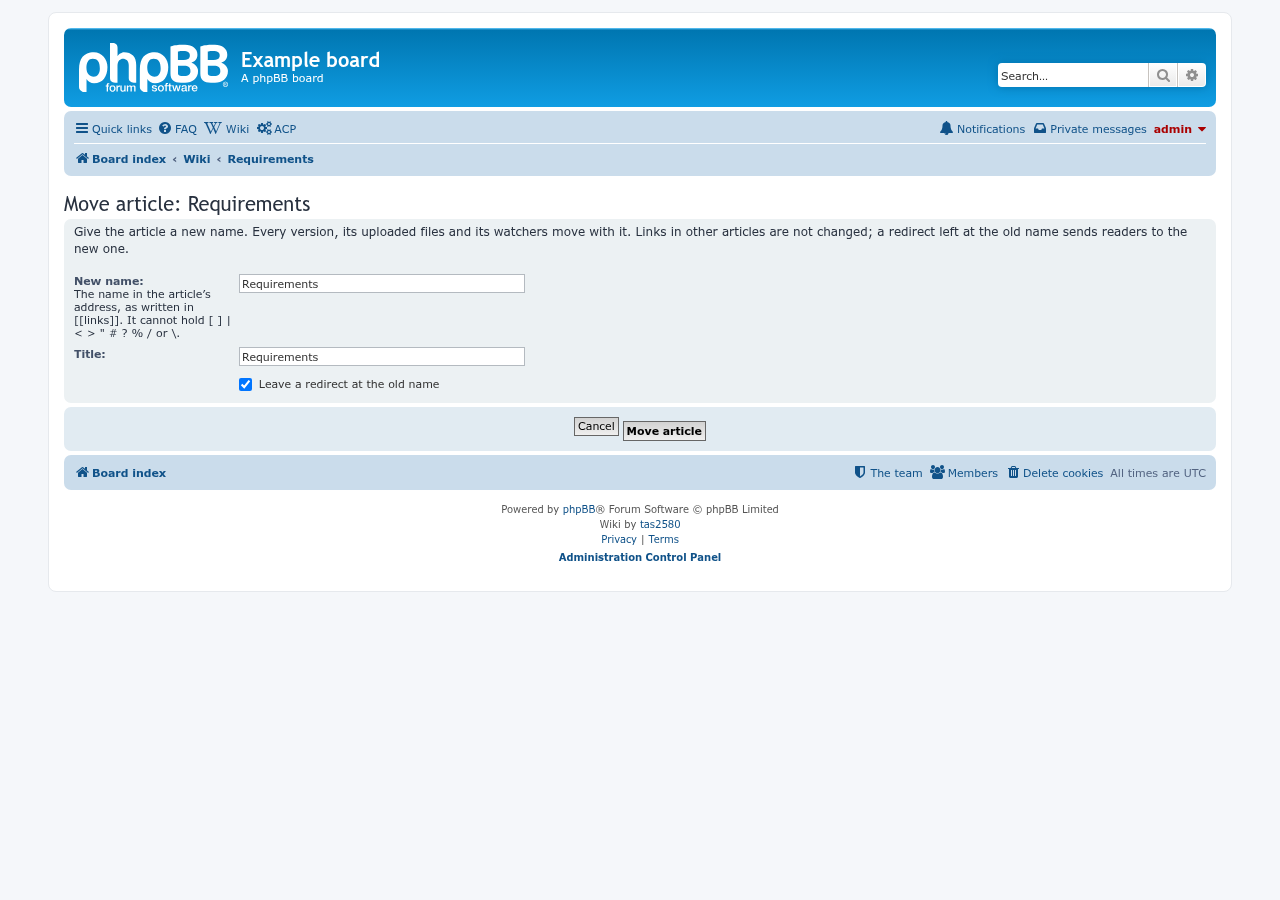
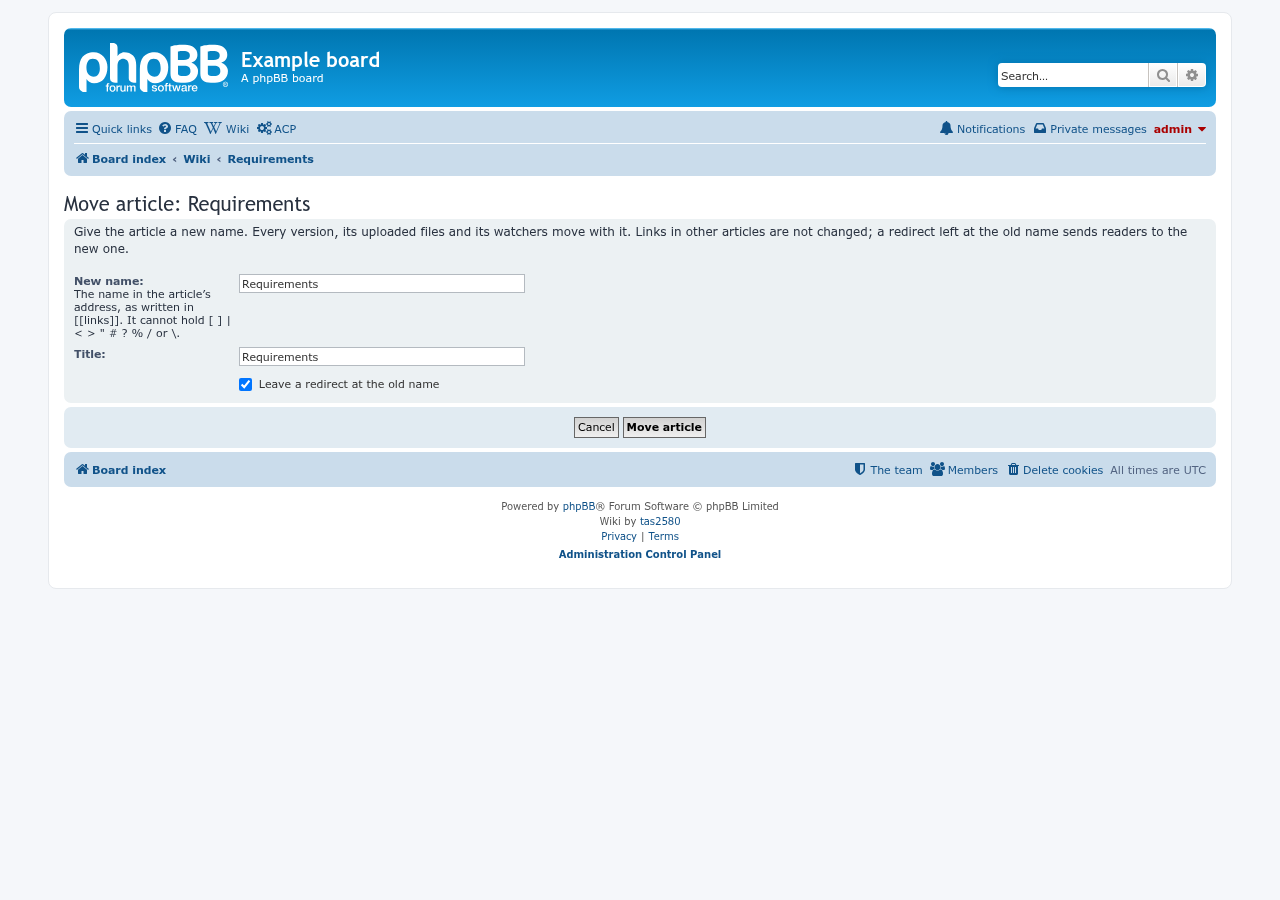
Make Cancel on the Move article page a real form button (#79)
Cancel on the Move article page (#63) was a link styled as `button2`,
which prosilver only sizes on form buttons, so it rendered smaller than
the Move button and out of line. It's now a form button named `cancel`
that goes back to the article, as in phpBB's own forms.
`docs/images/wiki-move.png` is retaken.

Claude retook the screenshot with phpbb-release-tools' `screenshots.py`,
and clicked Cancel on the seed-forum 3.3 board to check it returns to
the article.

---

Investigated and written by [Claude](https://www.anthropic.com/claude)
on behalf of William Jacoby ([bonelifer](https://github.com/bonelifer)).

🤖 Generated with [Claude Code](https://claude.com/claude-code)

---------

Changed region(s): [[0.0625, 0.4356, 0.9688, 0.6222]]

diff --git a/styles/prosilver/template/article_move.html b/styles/prosilver/template/article_move.html
@@ -35,7 +35,7 @@
 <div class="panel bg2">
 	<div class="inner">
 		<fieldset class="submit-buttons">
-			<a href="{U_CANCEL}" class="button2">{L_CANCEL}</a>
+			<input type="submit" name="cancel" value="{L_CANCEL}" class="button2">
 			<input type="submit" name="submit" value="{L_WIKI_MOVE_ARTICLE}" class="button1">
 			{S_FORM_TOKEN}
 		</fieldset>

diff --git a/wiki/move.php b/wiki/move.php
@@ -122,6 +122,11 @@ class move
 			trigger_error('NO_ARTICLE');
 		}
 
+		if ($this->request->is_set_post('cancel'))
+		{
+			redirect($this->helper->route('phpbbmodders_wiki_article', array('article' => $article)));
+		}
+
 		add_form_key('wiki_move');
 		// The request escapes HTML. Names are stored as written, titles escaped, as an edit stores them.
 		$new_name = $this->request->is_set_post('new_name') ? trim(htmlspecialchars_decode($this->request->variable('new_name', '', true), ENT_COMPAT)) : $article;
@@ -179,7 +184,6 @@ class move
 			'S_LEAVE_REDIRECT'	=> $leave_redirect,
 			'TEMPLATE_USED_BY'	=> $used_by ? $this->user->lang('WIKI_MOVE_TEMPLATE_WARNING', $used_by) : '',
 			'U_ACTION'			=> $this->helper->route('phpbbmodders_wiki_article', array('article' => $article, 'action' => 'move')),
-			'U_CANCEL'			=> $this->helper->route('phpbbmodders_wiki_article', array('article' => $article)),
 		));
 
 		return $this->helper->render('article_move.html', $this->user->lang('WIKI_MOVE_ARTICLE'));
